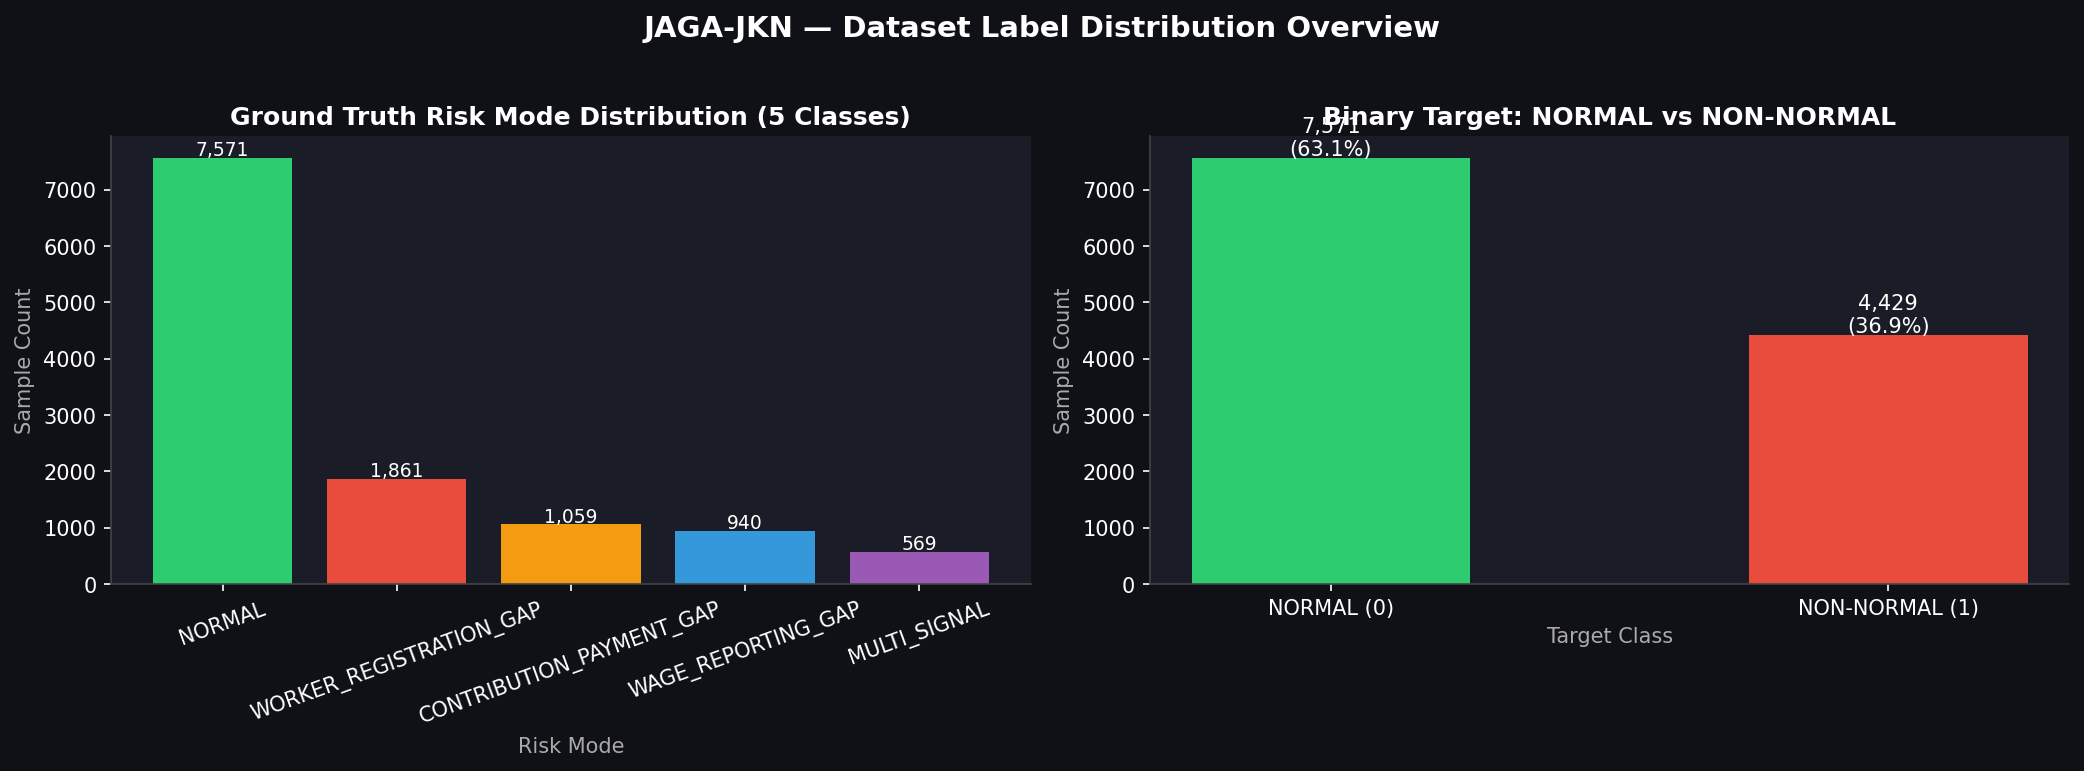
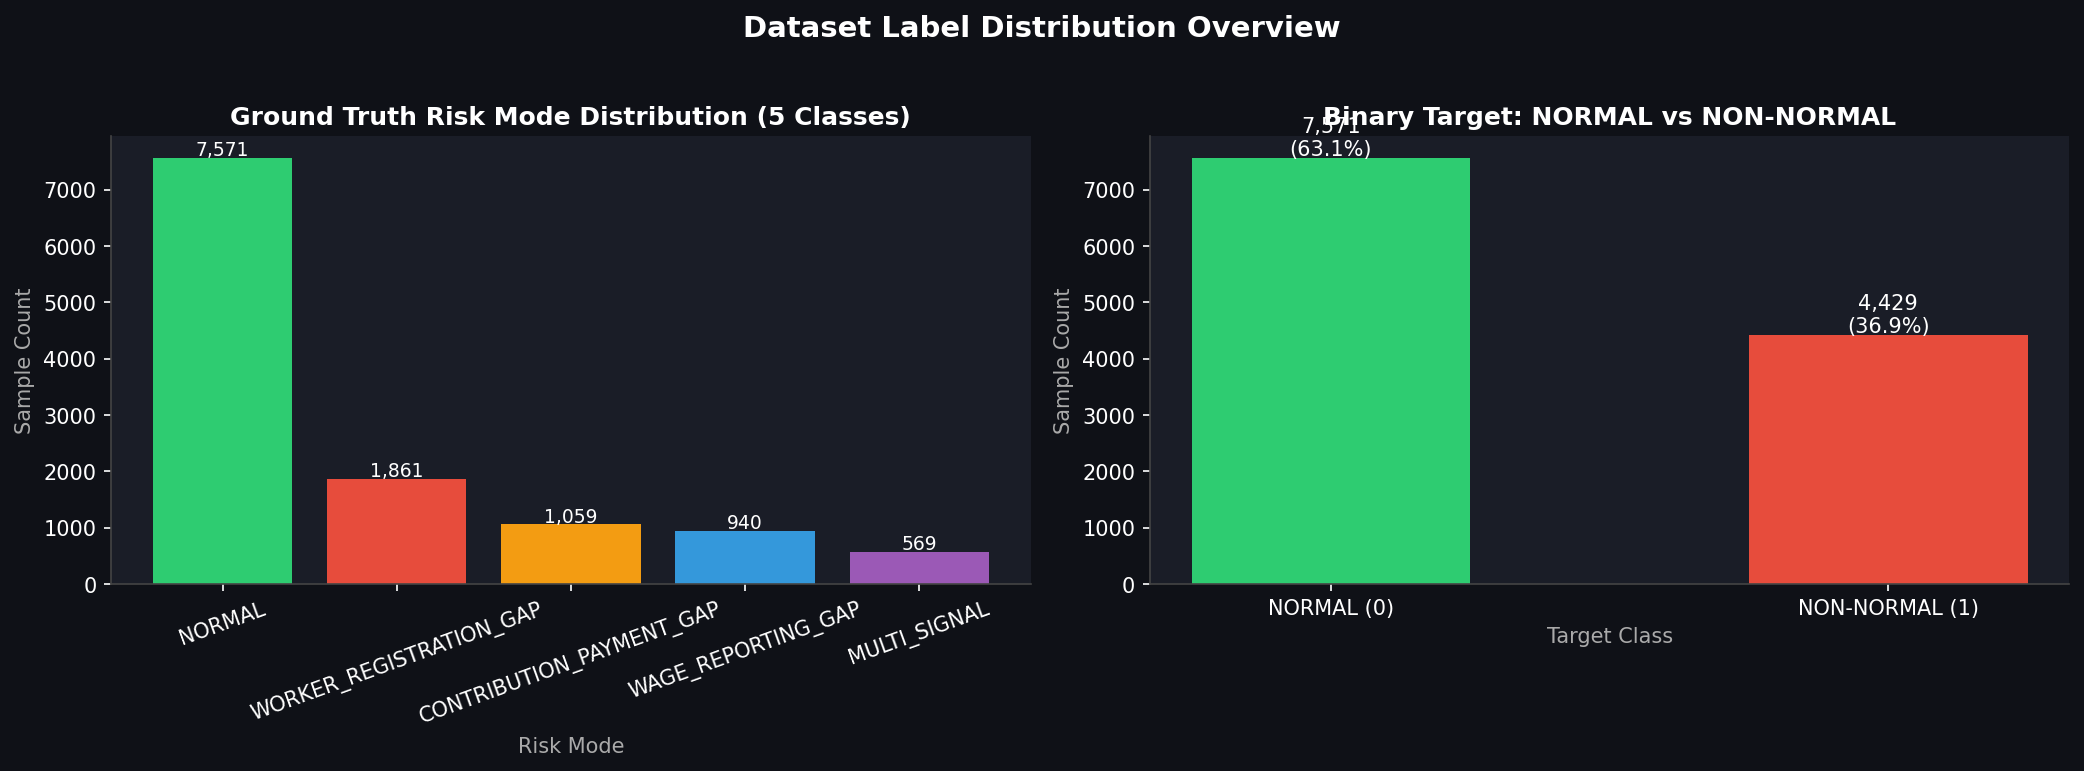
Machine Learning

Changed region(s): [[0.3119, 0.0, 0.6862, 0.0623]]

diff --git a/pipelines/audit/leakage_audit.py b/pipelines/audit/leakage_audit.py
@@ -15,7 +15,7 @@ from sklearn.preprocessing import LabelEncoder
 warnings.filterwarnings("ignore")
 
 sys.path.insert(0, str(Path(__file__).resolve().parents[2]))
-from pipelines.ml.config import (
+from pipelines.configure.config import (
     COL_BINARY_LABEL,
     COL_COMPANY_ID,
     COL_PERIOD,
@@ -123,18 +123,11 @@ def write_audit_report(df: pd.DataFrame, corr_df: pd.DataFrame, mi_df: pd.DataFr
     n_normal     = (df[COL_BINARY_LABEL] == 0).sum()
     n_non_normal = (df[COL_BINARY_LABEL] == 1).sum()
 
-    risk_icons = {
-        "VERY_HIGH": "🔴",
-        "HIGH": "🟠",
-        "MEDIUM": "🟡",
-        "LOW": "🟢",
-        "ERROR": "⚪",
-    }
 
     lines = [
-        "# JAGA-JKN | Feature Leakage Audit & EDA Report",
+        "# Feature Leakage Audit & EDA Report",
         "",
-        "**Lead ML Engineer:** Haidir (Dir)  ",
+        "**Lead ML Engineer:** Haidir ",
         "**Dataset Commit Reference:** `9390d36a1adbef6f17aa6804dd6c56d290e06d04`  ",
         f"**Total Records:** {total_records:,} | **Enterprises:** {df[COL_COMPANY_ID].nunique()} "
         f"| **Observation Period:** {df[COL_PERIOD].min()} to {df[COL_PERIOD].max()}  ",
@@ -169,8 +162,7 @@ def write_audit_report(df: pd.DataFrame, corr_df: pd.DataFrame, mi_df: pd.DataFr
     ]
     for _, row in corr_df.iterrows():
         c = f"{row['correlation']:.4f}" if row["correlation"] is not None else "N/A"
-        icon = risk_icons.get(row["leakage_risk"], "⚪")
-        lines.append(f"| `{row['feature']}` | {c} | {icon} {row['leakage_risk']} | {row['decision']} |")
+        lines.append(f"| `{row['feature']}` | {c} | {row['leakage_risk']} | {row['decision']} |")
 
     lines += [
         "",
@@ -208,7 +200,7 @@ def write_audit_report(df: pd.DataFrame, corr_df: pd.DataFrame, mi_df: pd.DataFr
         "",
         "---",
         "",
-        "> Disclaimer: Synthetic benchmark dataset. Strictly forbidden for real JKN operational sanctions.",
+        "> Disclaimer: Synthetic benchmark dataset.",
     ]
 
     LEAKAGE_AUDIT_PATH.write_text("\n".join(lines), encoding="utf-8")
@@ -217,13 +209,13 @@ def write_audit_report(df: pd.DataFrame, corr_df: pd.DataFrame, mi_df: pd.DataFr
 
 def run(df: pd.DataFrame) -> tuple:
     """Execute complete leakage audit and generate documentation. Returns (corr_df, mi_df)."""
-    print("[Audit] Computing Point-Biserial correlation...")
+    print("[Audit] Computing Point-Biserial correlation")
     corr_df = audit_correlation(df)
 
-    print("[Audit] Computing Mutual Information scores...")
+    print("[Audit] Computing Mutual Information scores")
     mi_df = audit_mutual_information(df)
 
-    print("[Audit] Writing formal audit documentation...")
+    print("[Audit] Writing formal audit documentation")
     write_audit_report(df, corr_df, mi_df)
 
     return corr_df, mi_df

diff --git a/pipelines/evaluation/summary_report.py b/pipelines/evaluation/summary_report.py
@@ -18,7 +18,7 @@ from sklearn.calibration import calibration_curve
 warnings.filterwarnings("ignore")
 
 sys.path.insert(0, str(Path(__file__).resolve().parents[2]))
-from pipelines.ml.config import FIGURES_DIR, METRICS_PATH, RESULTS_DIR, THRESHOLD_PATH
+from pipelines.configure.config import FIGURES_DIR, METRICS_PATH, RESULTS_DIR, THRESHOLD_PATH
 
 FIGURES_DIR.mkdir(parents=True, exist_ok=True)
 
@@ -74,9 +74,9 @@ def print_summary_table() -> None:
     tm = metrics_data.get("test_metrics", {})
 
     print()
-    print("=" * 70)
-    print("  BEST MODEL EVALUATION SUMMARY — EARLY WARNING (t+1)")
-    print("=" * 70)
+    print("-" * 70)
+    print("  MODEL EVALUATION SUMMARY — EARLY WARNING (t+1)")
+    print("-" * 70)
     print(f"  Model Name       : {metrics_data.get('model_name', '-')}")
     print(f"  F1-Macro         : {tm.get('f1_macro', '-')}")
     print(f"  F1-Binary        : {tm.get('f1_binary', '-')}")
@@ -87,7 +87,7 @@ def print_summary_table() -> None:
     print(f"  PR-AUC           : {tm.get('pr_auc', '-')}")
     print(f"  Threshold Used   : {tm.get('threshold', '-')}")
     print(f"  Test Sample Count: {metrics_data.get('n_test', '-')}")
-    print("=" * 70)
+    print("-" * 70)
 
     if THRESHOLD_PATH.exists():
         with open(THRESHOLD_PATH, encoding="utf-8") as f:
@@ -146,7 +146,7 @@ def plot_summary_dashboard() -> Path:
         cell.set_edgecolor("#444")
 
     ax.set_title(
-        "JAGA-JKN ML — Best Model Summary Dashboard (Test Set)",
+        "Model Summary Dashboard (Test Set)",
         color="white", fontsize=13, fontweight="bold", y=0.98,
     )
     plt.tight_layout()
@@ -159,19 +159,19 @@ def plot_summary_dashboard() -> Path:
 
 def run(model, X_arr: np.ndarray, y_true, model_name: str) -> None:
     """Execute complete reporting suite."""
-    print("[Summary] Generating calibration plot...")
+    print("[Summary] Generating calibration plot")
     plot_calibration(model, X_arr, y_true, model_name)
 
-    print("[Summary] Generating visual dashboard table...")
+    print("[Summary] Generating visual dashboard table")
     plot_summary_dashboard()
 
-    print("[Summary] Printing evaluation summary table...")
+    print("[Summary] Printing evaluation summary table")
     print_summary_table()
 
 
 if __name__ == "__main__":
     import pickle
-    from pipelines.ml.config import BEST_MODEL_PATH, COL_TARGET, TEST_PATH
+    from pipelines.configure.config import BEST_MODEL_PATH, COL_TARGET, TEST_PATH
     bundle  = pickle.loads(BEST_MODEL_PATH.read_bytes())
     test_df = pd.read_csv(TEST_PATH)
     mask    = test_df[COL_TARGET].notna()

diff --git a/pipelines/evaluation/shap_analysis.py b/pipelines/evaluation/shap_analysis.py
@@ -16,7 +16,7 @@ import pandas as pd
 warnings.filterwarnings("ignore")
 
 sys.path.insert(0, str(Path(__file__).resolve().parents[2]))
-from pipelines.ml.config import FIGURES_DIR
+from pipelines.configure.config import FIGURES_DIR
 
 FIGURES_DIR.mkdir(parents=True, exist_ok=True)
 
@@ -33,12 +33,6 @@ def _style_axes(ax):
 
 
 def compute_shap_values(model, X_arr: np.ndarray, max_samples: int = 500) -> tuple:
-    """
-    Calculate SHAP attribution values using appropriate explainer:
-    - TreeExplainer for Random Forest and LightGBM
-    - LinearExplainer for Logistic Regression
-    Returns: (shap_values, sampled_features).
-    """
     try:
         import shap
     except ImportError:
@@ -128,14 +122,14 @@ def plot_shap_beeswarm(shap_values: np.ndarray, X_sample: np.ndarray,
 
 def run(model, X_arr: np.ndarray, feature_names: list, model_name: str) -> dict:
     """Execute complete SHAP interpretability suite."""
-    print(f"[SHAP] Calculating SHAP attribution values for [{model_name}]...")
+    print(f"[SHAP] Calculating SHAP attribution values for [{model_name}]")
     try:
         sv, X_sample = compute_shap_values(model, X_arr)
 
-        print("[SHAP] Generating SHAP bar chart...")
+        print("[SHAP] Generating SHAP bar chart")
         bar_path = plot_shap_bar(sv, feature_names, model_name)
 
-        print("[SHAP] Generating SHAP beeswarm plot...")
+        print("[SHAP] Generating SHAP beeswarm plot")
         bee_path = plot_shap_beeswarm(sv, X_sample, feature_names, model_name)
 
         print(f"   SHAP Bar Chart: {bar_path}")
@@ -149,7 +143,7 @@ def run(model, X_arr: np.ndarray, feature_names: list, model_name: str) -> dict:
 
 if __name__ == "__main__":
     import pickle
-    from pipelines.ml.config import BEST_MODEL_PATH, COL_TARGET, TEST_PATH
+    from pipelines.configure.config import BEST_MODEL_PATH, COL_TARGET, TEST_PATH
     bundle  = pickle.loads(BEST_MODEL_PATH.read_bytes())
     test_df = pd.read_csv(TEST_PATH)
     mask    = test_df[COL_TARGET].notna()

diff --git a/pipelines/features/feature_engineering.py b/pipelines/features/feature_engineering.py
@@ -12,7 +12,7 @@ import pandas as pd
 warnings.filterwarnings("ignore")
 
 sys.path.insert(0, str(Path(__file__).resolve().parents[2]))
-from pipelines.ml.config import (
+from pipelines.configure.config import (
     ALL_EVIDENCE_VALID_COLS,
     COL_BINARY_LABEL,
     COL_COMPANY_ID,
@@ -93,7 +93,7 @@ def build_full_dataset() -> pd.DataFrame:
     engineer composite features, and generate target variables.
     Returns complete DataFrame ready for stratified partitioning.
     """
-    print("[Feature Engineering] Loading raw curated data...")
+    print("[Feature Engineering] Loading raw curated data")
     evidence_df = pd.read_csv(DATA_CURATED_EVIDENCE)
     master_df   = pd.read_csv(DATA_MASTER_BU)
 
@@ -108,16 +108,16 @@ def build_full_dataset() -> pd.DataFrame:
     df = evidence_df.merge(master_clean, on=COL_COMPANY_ID, how="left")
     df = df.sort_values([COL_COMPANY_ID, COL_PERIOD]).reset_index(drop=True)
 
-    print("[Feature Engineering] Constructing binary target variable...")
+    print("[Feature Engineering] Constructing binary target variable")
     df[COL_BINARY_LABEL] = (df[COL_RAW_RISK_MODE] != "NORMAL").astype(int)
 
-    print("[Feature Engineering] Engineering temporal and composite features...")
+    print("[Feature Engineering] Engineering temporal and composite features")
     df = _cast_boolean_columns(df)
     df = _normalize_quality_columns(df)
     df = _add_temporal_features(df)
     df = _add_quality_scores(df)
 
-    print("[Feature Engineering] Constructing lead-1 (t+1 early warning) target...")
+    print("[Feature Engineering] Constructing lead-1 (t+1 early warning) target")
     df[COL_TARGET] = df.groupby(COL_COMPANY_ID)[COL_BINARY_LABEL].shift(-1)
 
     print(f"   Final dataset shape: {df.shape} | Period span: {df[COL_PERIOD].min()} to {df[COL_PERIOD].max()}")

diff --git a/pipelines/audit/eda_plots.py b/pipelines/audit/eda_plots.py
@@ -17,7 +17,7 @@ import pandas as pd
 warnings.filterwarnings("ignore")
 
 sys.path.insert(0, str(Path(__file__).resolve().parents[2]))
-from pipelines.ml.config import COL_BINARY_LABEL, COL_RAW_RISK_MODE, FIGURES_DIR
+from pipelines.configure.config import COL_BINARY_LABEL, COL_RAW_RISK_MODE, FIGURES_DIR
 
 FIGURES_DIR.mkdir(parents=True, exist_ok=True)
 
@@ -68,7 +68,7 @@ def plot_label_distribution(df: pd.DataFrame) -> Path:
         ax2.text(bar.get_x() + bar.get_width() / 2, bar.get_height() + 40,
                  f"{val:,}\n({pct:.1f}%)", ha="center", color="white", fontsize=10)
 
-    plt.suptitle("JAGA-JKN — Dataset Label Distribution Overview",
+    plt.suptitle("Dataset Label Distribution Overview",
                  color="white", fontsize=14, fontweight="bold", y=1.02)
     plt.tight_layout()
     output_path = FIGURES_DIR / "eda_01_label_distribution.png"
@@ -135,15 +135,15 @@ def plot_feature_correlation_heatmap(corr_df: pd.DataFrame) -> Path:
 
 def run(df: pd.DataFrame, corr_df: pd.DataFrame = None) -> list:
     """Execute complete EDA plotting suite. Returns list of generated image paths."""
-    print("[EDA] Generating label distribution plot...")
+    print("[EDA] Generating label distribution plot")
     p1 = plot_label_distribution(df)
 
-    print("[EDA] Generating evidence quality distribution plot...")
+    print("[EDA] Generating evidence quality distribution plot")
     p2 = plot_evidence_quality(df)
 
     paths = [p1, p2]
     if corr_df is not None:
-        print("[EDA] Generating feature correlation plot...")
+        print("[EDA] Generating feature correlation plot")
         p3 = plot_feature_correlation_heatmap(corr_df)
         paths.append(p3)
 

diff --git a/pipelines/evaluation/threshold_analysis.py b/pipelines/evaluation/threshold_analysis.py
@@ -18,7 +18,7 @@ from sklearn.metrics import average_precision_score, precision_recall_curve
 warnings.filterwarnings("ignore")
 
 sys.path.insert(0, str(Path(__file__).resolve().parents[2]))
-from pipelines.ml.config import (
+from pipelines.configure.config import (
     FIGURES_DIR,
     OPERATIONAL_THRESHOLD,
     RESULTS_DIR,
@@ -126,7 +126,7 @@ def run(model_name: str, y_true, y_proba) -> dict:
 
 if __name__ == "__main__":
     import pickle
-    from pipelines.ml.config import BEST_MODEL_PATH, COL_TARGET, TEST_PATH
+    from pipelines.configure.config import BEST_MODEL_PATH, COL_TARGET, TEST_PATH
     import pandas as pd
     bundle  = pickle.loads(BEST_MODEL_PATH.read_bytes())
     test_df = pd.read_csv(TEST_PATH)

diff --git a/pipelines/training/train.py b/pipelines/training/train.py
@@ -25,7 +25,7 @@ from sklearn.preprocessing import OrdinalEncoder, StandardScaler
 warnings.filterwarnings("ignore")
 
 sys.path.insert(0, str(Path(__file__).resolve().parents[2]))
-from pipelines.ml.config import (
+from pipelines.configure.config import (
     ALL_FEATURES,
     BEST_MODEL_PATH,
     CATEGORICAL_FEATURES,

diff --git a/pipelines/training/build_models.py b/pipelines/training/build_models.py
@@ -11,7 +11,7 @@ from sklearn.linear_model import LogisticRegression
 from sklearn.ensemble import RandomForestClassifier
 
 sys.path.insert(0, str(Path(__file__).resolve().parents[2]))
-from pipelines.ml.config import MODEL_SEED
+from pipelines.configure.config import MODEL_SEED
 
 
 def get_models() -> dict:

diff --git a/pipelines/features/data_split.py b/pipelines/features/data_split.py
@@ -14,7 +14,7 @@ from sklearn.model_selection import train_test_split
 warnings.filterwarnings("ignore")
 
 sys.path.insert(0, str(Path(__file__).resolve().parents[2]))
-from pipelines.ml.config import (
+from pipelines.configure.config import (
     ALL_FEATURES,
     COL_BINARY_LABEL,
     COL_COMPANY_ID,

diff --git a/results/label_and_leakage_audit.md b/results/label_and_leakage_audit.md
@@ -1,6 +1,6 @@
-# JAGA-JKN | Feature Leakage Audit & EDA Report
+# Feature Leakage Audit & EDA Report
 
-**Lead ML Engineer:** Haidir (Dir)  
+**Lead ML Engineer:** Haidir 
 **Dataset Commit Reference:** `9390d36a1adbef6f17aa6804dd6c56d290e06d04`  
 **Total Records:** 12,000 | **Enterprises:** 500 | **Observation Period:** 2025-01 to 2026-12  
 
@@ -31,42 +31,42 @@
 
 | Feature | Correlation | Leakage Risk | Policy Decision |
 |---|---:|---|---|
-| `contribution_payment_gap_observed` | 0.5180 | 🟠 HIGH | FORBIDDEN (Policy) |
-| `wage_discrepancy_detected` | 0.4959 | 🟠 HIGH | FORBIDDEN (Policy) |
-| `wage_discrepancy_signal_rp` | 0.4532 | 🟠 HIGH | FORBIDDEN (Policy) |
-| `registration_discrepancy_detected` | 0.4336 | 🟠 HIGH | FORBIDDEN (Policy) |
-| `missing_worker_count` | 0.3402 | 🟡 MEDIUM | FORBIDDEN (Policy) |
-| `month_index` | 0.2509 | 🟡 MEDIUM | HOLD |
-| `unexpected_worker_count` | -0.1046 | 🟢 LOW | ALLOWED |
-| `is_semester_end` | 0.0449 | 🟢 LOW | ALLOWED |
-| `observed_registered_worker_count` | -0.0374 | 🟢 LOW | ALLOWED |
-| `observed_wage_signal_rp` | -0.0309 | 🟢 LOW | ALLOWED |
-| `registration_evidence_quality` | 0.0000 | 🟢 LOW | ALLOWED |
-| `registration_evidence_valid` | 0.0000 | 🟢 LOW | ALLOWED |
-| `registration_period_binding_valid` | 0.0000 | 🟢 LOW | ALLOWED |
-| `registration_source_metadata_valid` | 0.0000 | 🟢 LOW | ALLOWED |
-| `contribution_evidence_valid` | 0.0000 | 🟢 LOW | ALLOWED |
-| `wage_semantic_consistency_valid` | 0.0000 | 🟢 LOW | ALLOWED |
-| `registration_worker_set_valid` | 0.0000 | 🟢 LOW | ALLOWED |
-| `registration_explanation_metadata_valid` | 0.0000 | 🟢 LOW | ALLOWED |
-| `wage_evidence_valid` | 0.0000 | 🟢 LOW | ALLOWED |
-| `wage_evidence_quality` | 0.0000 | 🟢 LOW | ALLOWED |
-| `contribution_evidence_quality` | 0.0000 | 🟢 LOW | ALLOWED |
-| `contribution_source_metadata_valid` | 0.0000 | 🟢 LOW | ALLOWED |
-| `contribution_period_binding_valid` | 0.0000 | 🟢 LOW | ALLOWED |
-| `payment_semantic_consistency_valid` | 0.0000 | 🟢 LOW | ALLOWED |
-| `wage_source_metadata_valid` | 0.0000 | 🟢 LOW | ALLOWED |
-| `wage_period_binding_valid` | 0.0000 | 🟢 LOW | ALLOWED |
-| `registration_quality_score` | 0.0000 | 🟢 LOW | ALLOWED |
-| `evidence_quality_composite` | 0.0000 | 🟢 LOW | ALLOWED |
-| `wage_quality_score` | 0.0000 | 🟢 LOW | ALLOWED |
-| `contribution_quality_score` | 0.0000 | 🟢 LOW | ALLOWED |
-| `total_evidence_flags` | 0.0000 | 🟢 LOW | ALLOWED |
-| `registration_rule_result` | 0.0000 | 🟢 LOW | FORBIDDEN (Policy) |
-| `wage_rule_result` | 0.0000 | 🟢 LOW | FORBIDDEN (Policy) |
-| `contribution_rule_result` | 0.0000 | 🟢 LOW | FORBIDDEN (Policy) |
-| `registration_review_state` | 0.0000 | 🟢 LOW | FORBIDDEN (Policy) |
-| `wage_review_state` | 0.0000 | 🟢 LOW | FORBIDDEN (Policy) |
+| `contribution_payment_gap_observed` | 0.5180 | HIGH | FORBIDDEN (Policy) |
+| `wage_discrepancy_detected` | 0.4959 | HIGH | FORBIDDEN (Policy) |
+| `wage_discrepancy_signal_rp` | 0.4532 | HIGH | FORBIDDEN (Policy) |
+| `registration_discrepancy_detected` | 0.4336 | HIGH | FORBIDDEN (Policy) |
+| `missing_worker_count` | 0.3402 | MEDIUM | FORBIDDEN (Policy) |
+| `month_index` | 0.2509 | MEDIUM | HOLD |
+| `unexpected_worker_count` | -0.1046 | LOW | ALLOWED |
+| `is_semester_end` | 0.0449 | LOW | ALLOWED |
+| `observed_registered_worker_count` | -0.0374 | LOW | ALLOWED |
+| `observed_wage_signal_rp` | -0.0309 | LOW | ALLOWED |
+| `registration_evidence_quality` | 0.0000 | LOW | ALLOWED |
+| `registration_evidence_valid` | 0.0000 | LOW | ALLOWED |
+| `registration_period_binding_valid` | 0.0000 | LOW | ALLOWED |
+| `registration_source_metadata_valid` | 0.0000 | LOW | ALLOWED |
+| `contribution_evidence_valid` | 0.0000 | LOW | ALLOWED |
+| `wage_semantic_consistency_valid` | 0.0000 | LOW | ALLOWED |
+| `registration_worker_set_valid` | 0.0000 | LOW | ALLOWED |
+| `registration_explanation_metadata_valid` | 0.0000 | LOW | ALLOWED |
+| `wage_evidence_valid` | 0.0000 | LOW | ALLOWED |
+| `wage_evidence_quality` | 0.0000 | LOW | ALLOWED |
+| `contribution_evidence_quality` | 0.0000 | LOW | ALLOWED |
+| `contribution_source_metadata_valid` | 0.0000 | LOW | ALLOWED |
+| `contribution_period_binding_valid` | 0.0000 | LOW | ALLOWED |
+| `payment_semantic_consistency_valid` | 0.0000 | LOW | ALLOWED |
+| `wage_source_metadata_valid` | 0.0000 | LOW | ALLOWED |
+| `wage_period_binding_valid` | 0.0000 | LOW | ALLOWED |
+| `registration_quality_score` | 0.0000 | LOW | ALLOWED |
+| `evidence_quality_composite` | 0.0000 | LOW | ALLOWED |
+| `wage_quality_score` | 0.0000 | LOW | ALLOWED |
+| `contribution_quality_score` | 0.0000 | LOW | ALLOWED |
+| `total_evidence_flags` | 0.0000 | LOW | ALLOWED |
+| `registration_rule_result` | 0.0000 | LOW | FORBIDDEN (Policy) |
+| `wage_rule_result` | 0.0000 | LOW | FORBIDDEN (Policy) |
+| `contribution_rule_result` | 0.0000 | LOW | FORBIDDEN (Policy) |
+| `registration_review_state` | 0.0000 | LOW | FORBIDDEN (Policy) |
+| `wage_review_state` | 0.0000 | LOW | FORBIDDEN (Policy) |
 
 ---
 
